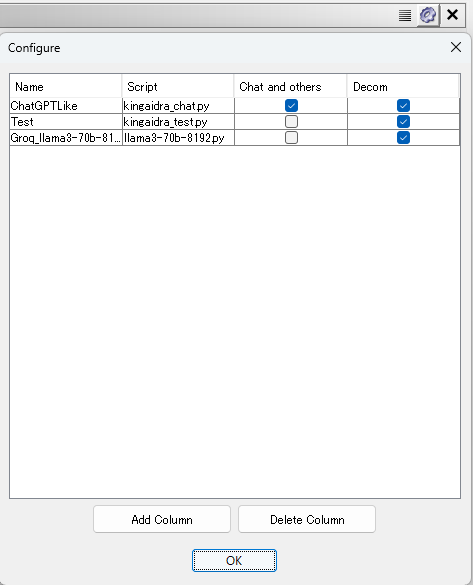
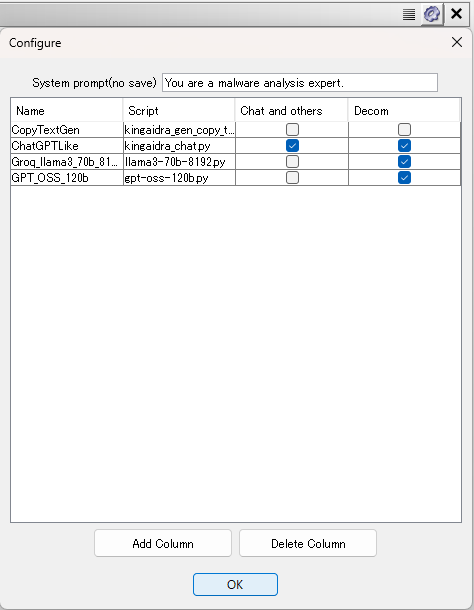
Fix README

Changed region(s): [[0.0, 0.1231, 0.9767, 1.0], [0.0, 0.0, 1.0, 0.0923]]

diff --git a/README.md b/README.md
@@ -15,9 +15,11 @@ KinGAidra is a Ghidra extension designed to enhance reverse engineering workflow
 
 The Chat feature in KinGAidra allows users to interact with an AI to discuss and analyze binaries.
 
-- Inputs enclosed in `<code>` or `<code:address>` tags will be converted into decompiled code.
-- Inputs enclosed in `<asm>` or `<asm:address>` tags will be converted into assembly code.
-- Inputs enclosed in `<strings>` tags will be converted into a list of strings.
+- Inputs enclosed in `<code>`, `<code:address>`, or `<code:address:recursive_count>` tags will be converted into decompiled code.
+- Inputs enclosed in `<asm>`, `<asm:address>`, or `<asm:address:recursive_count>` tags will be converted into assembly code.
+- Inputs enclosed in `<aasm>`, `<aasm:address>`, or `<aasm:address:recursive_count>` tags will be converted into assembly code with addresses.
+- Inputs enclosed in `<strings>`, `<strings:index>`, or `<strings:index:count>` tags will be converted into a list of strings.
+- Inputs enclosed in `<calltree>`, `<calltree:address>`, or `<calltree:address:depth>` tags will be converted into a call tree.
 
 **Chat Example**
 
@@ -55,6 +57,14 @@ The History feature in KinGAidra allows users to save chat logs for future refer
 
 ![History Example](./img/log.png)
 
+## Scripts
+
+Default scripts.
+
+- `kingaidra_gen_copy_text.py`: Displays prompts with placeholders resolved, ready to copy into a UI such as ChatGPT.
+- `kingaidra_auto.py`: Automatically analyzes multiple functions.
+- `kingaidra_chat.py`: Provides a customizable interface for sending and receiving queries to LLMs within KinGAidra.
+
 ## Installation
 
 To install KinGAidra, follow these steps:
@@ -71,7 +81,7 @@ To install KinGAidra, follow these steps:
 
 ## Configuration
 
-Before using KinGAidra, configure the script with your LLM API details:
+Before using KinGAidra, set up the `kingaidra_chat.py` script with your LLM API information:
 
 1. **Open Script Manager**: In Ghidra, navigate to `Window -> Script Manager`.
 2. **Edit the script**: Locate the `kingaidra_chat.py` script in the list and open it for editing.
@@ -84,6 +94,6 @@ You can use the OpenAI API or similar APIs as the LLM API. For example, services
 
 ![Configuration Script](./img/conf_script.png)
 
-You can add scripts to KinGAidra through the settings screen shown in the image below. Additionally, you can select which features will utilize the added scripts.
+You can also copy `kingaidra_chat.py` and configure each copy with different API endpoints, models, or prompts. This allows you to switch between multiple LLMs or customize responses for different use cases. You can add scripts to KinGAidra through the settings screen shown in the image below. Additionally, you can select which scripts to use for whitch functions.
 
 ![Configuration Models](./img/conf_models.png)
